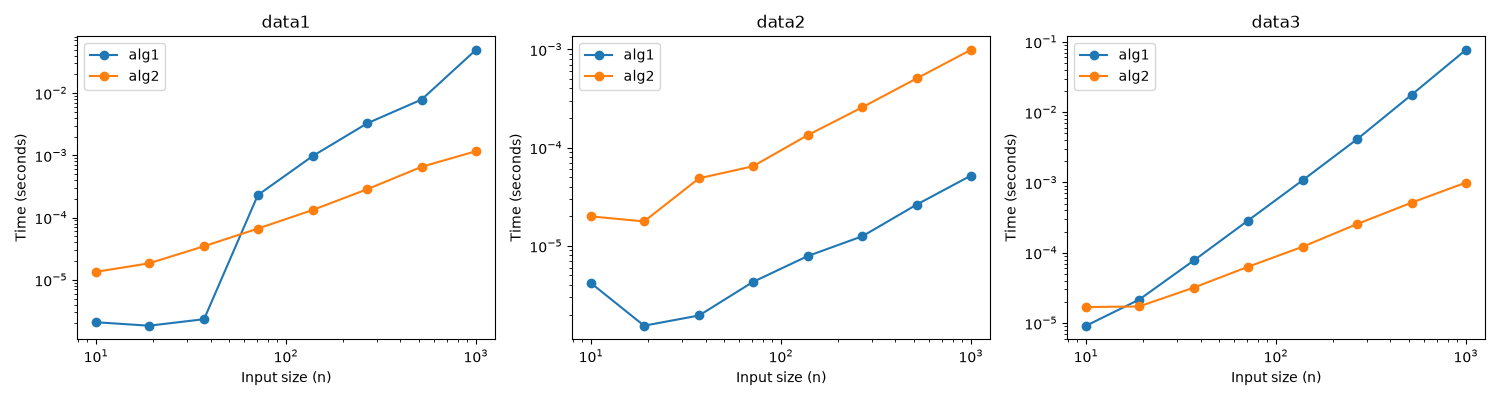
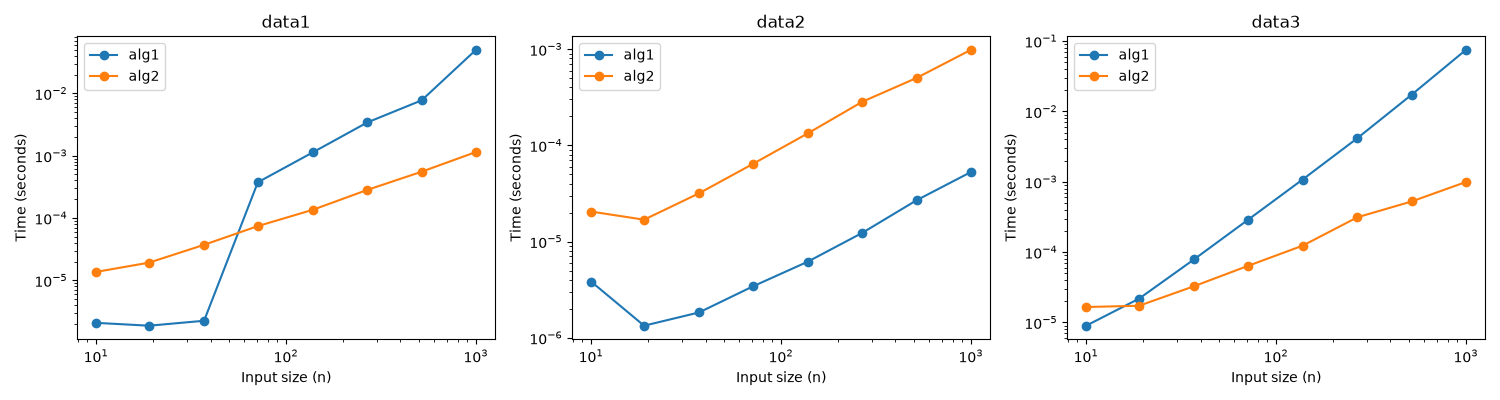
update

diff --git a/dataStructure_algorithm/code.py b/dataStructure_algorithm/code.py
@@ -1,3 +1,5 @@
+from pathlib import Path
+
 def alg1(data):
     data = list(data)
     changes = True
@@ -111,5 +113,5 @@ for ax, generator in zip(axes, [data1, data2, data3]):
     ax.legend()
 
 plt.tight_layout()
-plt.savefig("benchmark.png")
+plt.savefig(Path(__file__).resolve().parent / "benchmark.png")
 plt.show()
